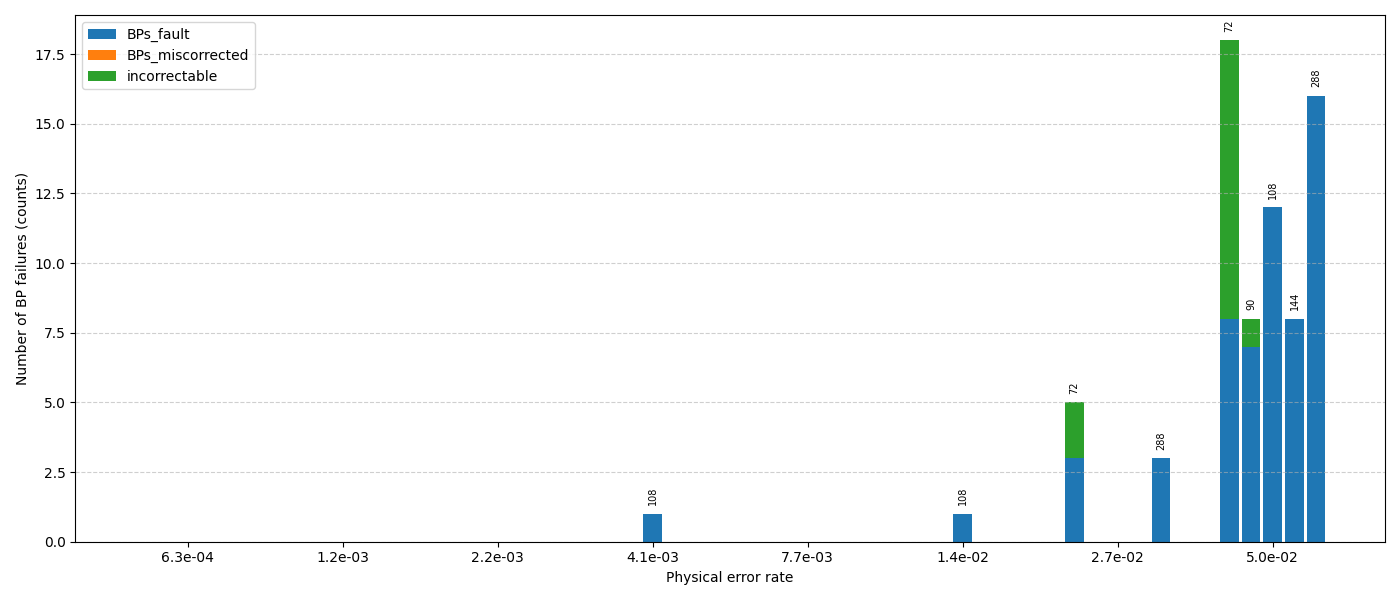
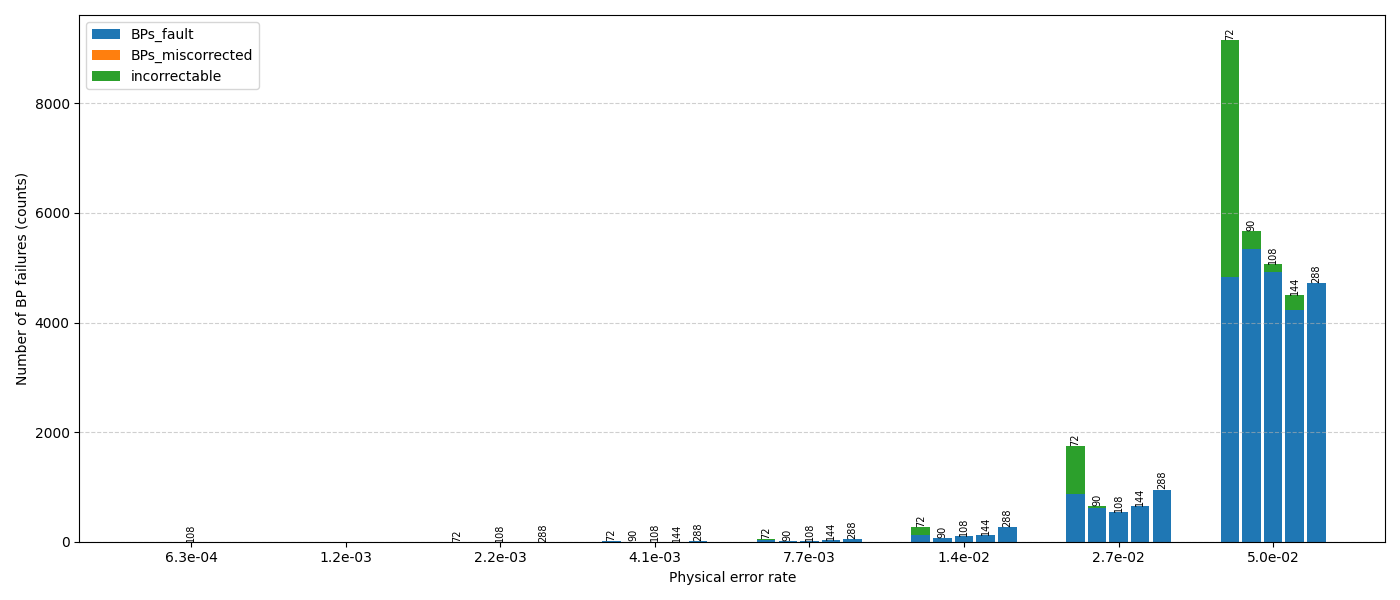
50k run

diff --git a/study.py b/study.py
@@ -13,7 +13,7 @@ codes = [
     "[[288, 12, 18]]",
 ]
 
-trials = 100
+trials = 50000
 physicalErrorRates = np.logspace(-3.2, -1.3, 8)
 results = {}
 for code in tqdm.tqdm(codes):
